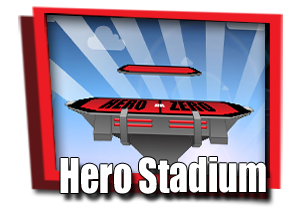
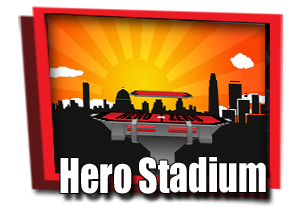
lol

diff --git a/SmashBros/SmashBros/SmashBros/MySystem/Serializing.cs b/SmashBros/SmashBros/SmashBros/MySystem/Serializing.cs
@@ -2,7 +2,6 @@
 using System.Collections.Generic;
 using System.Linq;
 using System.Text;
-using SmashBros.Model;
 using System.IO;
 using Newtonsoft.Json;
 using System.Diagnostics;
@@ -309,14 +308,14 @@ namespace SmashBros.MySystem
                 map.thumbImage = "Maps/CityMapThumb";
                 map.backgroundMusic = "Sound/Game/HeroStadium";
                 map.size = new Box(3500, 1600, -800, 0);
-                map.zoomBox = new Box(3000, 1300, -800, 100);
+                map.zoomBox = new Box(10000, 10000, -5000, -5000);
                 map.DropZone = new Box(200, 800, 500, 100);
 
 
                 if (i == 0)
                 {
                     map.name = "Hero Stadium";
-                    map.bgImage = "Maps/CloudBg";
+                    map.bgImage = "Maps/CityBg";
                     map.mapImage = "Maps/HeroStadium";
                     map.thumbImage = "Maps/HeroStadiumThumb";
                     map.size = new Box(3400, 2000, -1100, -1200);
@@ -333,6 +332,28 @@ namespace SmashBros.MySystem
                     map.AddStartPos(1170, 140);
                     map.AddStartPos(530, -70);
                     map.AddStartPos(870, -70);
+                }
+                else if (i == 1)
+                {
+                    map.name = "Grass Town";
+                    map.bgImage = "Maps/CloudBg";
+                    map.mapImage = "Maps/GrassTown";
+                    map.thumbImage = "Maps/GrassTownThumb";
+                    map.size = new Box(4000, 2600, -1000, -800);
+                    map.zoomBox = new Box(3160, 2300, -560, -580);
+                    map.DropZone = new Box(1800, 900, 75, -176);
+
+                    map.AddBox(205,850, 310, 250);
+                    map.AddBox(980,880, 805, 265);
+                    map.AddBox(1755, 860, 315, 245);
+
+                    map.AddFloatBox(545, 512, 325);
+                    map.AddFloatBox(1385, 524, 445);
+
+                    map.AddStartPos(750, 614);
+                    map.AddStartPos(1260, 614);
+                    map.AddStartPos(192, 610);
+                    map.AddStartPos(1750, 630);
                 }
                 else
                 {

diff --git a/SmashBros/SmashBros/SmashBros/MySystem/ScreenManager.cs b/SmashBros/SmashBros/SmashBros/MySystem/ScreenManager.cs
@@ -12,9 +12,9 @@ using SmashBros.MySystem;
 using FarseerPhysics.DebugViews;
 using FarseerPhysics;
 using System.Threading;
-using SmashBros.Model;
 using SmashBros.Controllers;
 using SmashBros.Models;
+using System.IO;
 
 namespace SmashBros.MySystem
 {
@@ -56,6 +56,7 @@ namespace SmashBros.MySystem
             Exit();
         }
 
+        Texture2D Image;
         protected override void LoadContent()
         {
 
@@ -68,6 +69,7 @@ namespace SmashBros.MySystem
             ControllerViewManager = new ControllerViewManager(Game.GraphicsDevice, content);
             //Adds the sound controller
             ControllerViewManager.AddController(soundController);
+
 
             //Loads and add the fonts to the a list so controllers easily can reach this just by the name of the string
             fonts.Add("Impact", content.Load<SpriteFont>("Fonts/Impact"));
@@ -99,12 +101,12 @@ namespace SmashBros.MySystem
                 gameStateManager.CurrentState = GameState.GamePlay;
                 var chars = Serializing.LoadCharacters();
                 var maps = Serializing.LoadMaps();
-                gamePads[0].PlayerModel.SelectedCharacter = chars[2];
+                gamePads[0].PlayerModel.SelectedCharacter = chars[0];
                 gamePads[0].PlayerModel.CharacterIndex = 0;
                 gamePads[1].PlayerModel.SelectedCharacter = chars[3];
                 gamePads[1].PlayerModel.CharacterIndex = 2;
 
-                GamePlayController game = new GamePlayController(this, maps[0]);
+                GamePlayController game = new GamePlayController(this, maps[1]);
                 ControllerViewManager.AddController(game);
             }
             else

diff --git a/SmashBros/SmashBros/SmashBros/Controllers/PowerUpController.cs b/SmashBros/SmashBros/SmashBros/Controllers/PowerUpController.cs
@@ -5,7 +5,6 @@ using System.Text;
 using Microsoft.Xna.Framework.Content;
 using Microsoft.Xna.Framework;
 using SmashBros.MySystem;
-using SmashBros.Model;
 using SmashBros.Views;
 using SmashBros.Models;
 using FarseerPhysics.Dynamics;
@@ -52,7 +51,7 @@ namespace SmashBros.Controllers
             powerUpImg = new ImageController(Screen, "GameStuff/PowerUps", 120, false);
             powerUpImg.FrameRectangle = new Rectangle(0, 0, 50, 50);
             powerUpImg.OriginDefault = new Vector2(25, 25);
-            powerUpImg.FramesPerRow = 5;
+            //powerUpImg.FramesPerRow = 5;
             powerUpImg.ScaleDefault = 0;
             AddController(powerUpImg);
 
@@ -123,7 +122,7 @@ namespace SmashBros.Controllers
 
             PowerUpStatus status = new PowerUpStatus(randomPowerUp(), model);
             model.BoundBox.UserData = status;
-            model.CurrentFrame = (int)MathHelper.Clamp(status.PowerUp.imageFrame, 0f, 3f);
+            //model.CurrentFrame = (int)MathHelper.Clamp(status.PowerUp.imageFrame, 0f, 3f);
             waitingPowerUps.Add(status);
         }
 

diff --git a/SmashBros/SmashBros/SmashBros/MySystem/Constants.cs b/SmashBros/SmashBros/SmashBros/MySystem/Constants.cs
@@ -2,7 +2,6 @@
 using System.Collections.Generic;
 using System.Linq;
 using System.Text;
-using SmashBros.Model;
 using Microsoft.Xna.Framework;
 
 namespace SmashBros.MySystem
@@ -10,12 +9,12 @@ namespace SmashBros.MySystem
     public static class Constants
     {
         public const bool DebugMode = true;
-        public const bool StartGameplay = true;
+        public const bool StartGameplay = !true;
         public const bool Music = true;
         public const bool ZoomMin = !true;
         public const int WindowWidth = 1280;
         public const int WindowHeight = 720;
-        public const bool FullScreen = true;
+        public const bool FullScreen = !true;
 
         public const int FPS = 20;
         public const float MaxZoom = 1.9f;

diff --git a/SmashBros/SmashBros/SmashBros/Properties/AssemblyInfo.cs b/SmashBros/SmashBros/SmashBros/Properties/AssemblyInfo.cs
@@ -17,7 +17,7 @@ using System.Runtime.InteropServices;
 // to COM components.  If you need to access a type in this assembly from 
 // COM, set the ComVisible attribute to true on that type. Only Windows
 // assemblies support COM.
-[assembly: ComVisible(false)]
+[assembly: ComVisible(true)]
 
 // On Windows, the following GUID is for the ID of the typelib if this
 // project is exposed to COM. On other platforms, it unique identifies the

diff --git a/SmashBros/SmashBros/SmashBros/Controllers/MapController.cs b/SmashBros/SmashBros/SmashBros/Controllers/MapController.cs
@@ -4,12 +4,12 @@ using System.Linq;
 using System.Text;
 using Microsoft.Xna.Framework.Graphics;
 using FarseerPhysics.Dynamics;
-using SmashBros.Model;
 using Microsoft.Xna.Framework.Content;
 using Microsoft.Xna.Framework;
 using SmashBros.Views;
 using FarseerPhysics.Factories;
 using SmashBros.MySystem;
+using SmashBros.Models;
 
 namespace SmashBros.Controllers
 {

diff --git a/SmashBros/SmashBros/SmashBros/Models/CursorModel.cs b/SmashBros/SmashBros/SmashBros/Models/CursorModel.cs
@@ -25,7 +25,7 @@ namespace SmashBros.Models
             Cursor.Mass = 1;
             Cursor.UserData = pad.PlayerIndex;
             Cursor.BoundBox.IgnoreGravity = true;
-            Cursor.Origin = new Vector2(35, 35);
+            Cursor.Origin = new Vector2(60, 0);
 
             this.Pad = pad;
             this.Navigation = navigationMethod;

diff --git a/SmashBros/SmashBros/SmashBros/Controllers/CameraController.cs b/SmashBros/SmashBros/SmashBros/Controllers/CameraController.cs
@@ -9,8 +9,8 @@ using Microsoft.Xna.Framework;
 using FarseerPhysics.Dynamics;
 using FarseerPhysics.Factories;
 using Microsoft.Xna.Framework.Graphics;
-using SmashBros.Model;
 using FarseerPhysics.Collision.Shapes;
+using SmashBros.Models;
 
 namespace SmashBros.Controllers
 {

diff --git a/SmashBros/SmashBros/SmashBros/Models/Box.cs b/SmashBros/SmashBros/SmashBros/Models/Box.cs
@@ -7,7 +7,7 @@ using FarseerPhysics.Dynamics;
 using System.Runtime.Serialization;
 using SmashBros.MySystem;
 
-namespace SmashBros.Model
+namespace SmashBros.Models
 {
     /// <summary>
     /// Same as rectangle only with floats instead of ints, and is Serializable

diff --git a/SmashBros/SmashBros/SmashBros/Controllers/MenuController.cs b/SmashBros/SmashBros/SmashBros/Controllers/MenuController.cs
@@ -7,7 +7,6 @@ using Microsoft.Xna.Framework.Content;
 using SmashBros.Views;
 using Microsoft.Xna.Framework.Graphics;
 using Microsoft.Xna.Framework.Input;
-using SmashBros.Model;
 using SmashBros.MySystem;
 using FarseerPhysics.Dynamics;
 using System.Diagnostics;

diff --git a/SmashBros/SmashBros/SmashBros/Controllers/SoundController.cs b/SmashBros/SmashBros/SmashBros/Controllers/SoundController.cs
@@ -5,8 +5,8 @@ using System.Text;
 using Microsoft.Xna.Framework.Content;
 using SmashBros.MySystem;
 using Microsoft.Xna.Framework.Audio;
-using SmashBros.Model;
 using Microsoft.Xna.Framework;
+using SmashBros.Models;
 
 namespace SmashBros.Controllers
 {

diff --git a/SmashBros/SmashBros/SmashBros/Controllers/CursorController.cs b/SmashBros/SmashBros/SmashBros/Controllers/CursorController.cs
@@ -7,7 +7,6 @@ using Microsoft.Xna.Framework.Content;
 using SmashBros.MySystem;
 using SmashBros.Views;
 using FarseerPhysics.Dynamics;
-using SmashBros.Model;
 using FarseerPhysics.Dynamics.Contacts;
 using SmashBros.Models;
 using System.Diagnostics;
